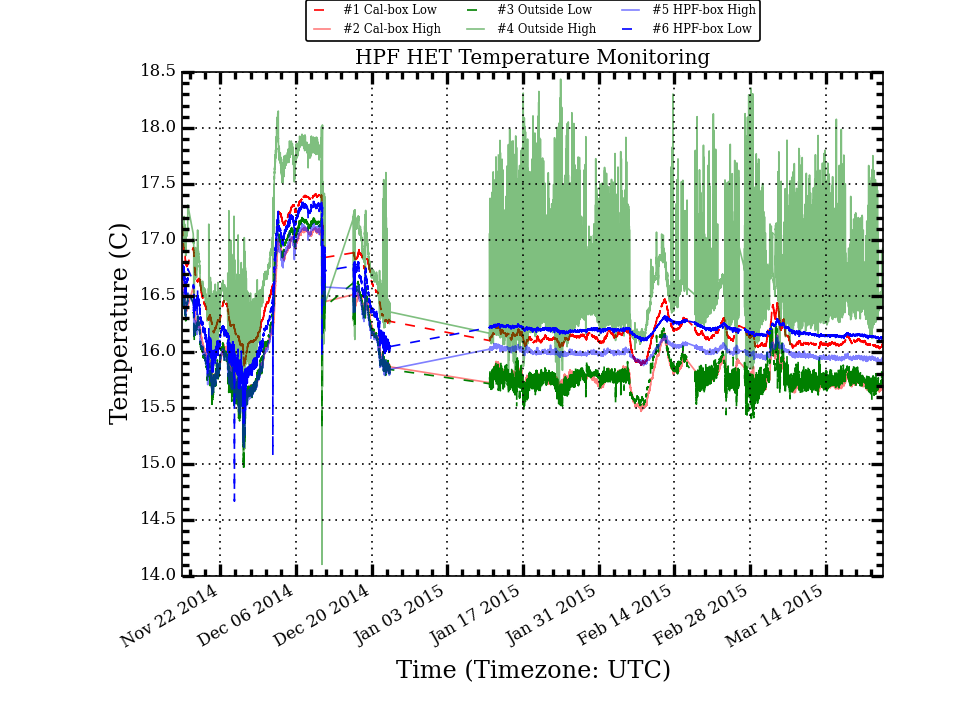
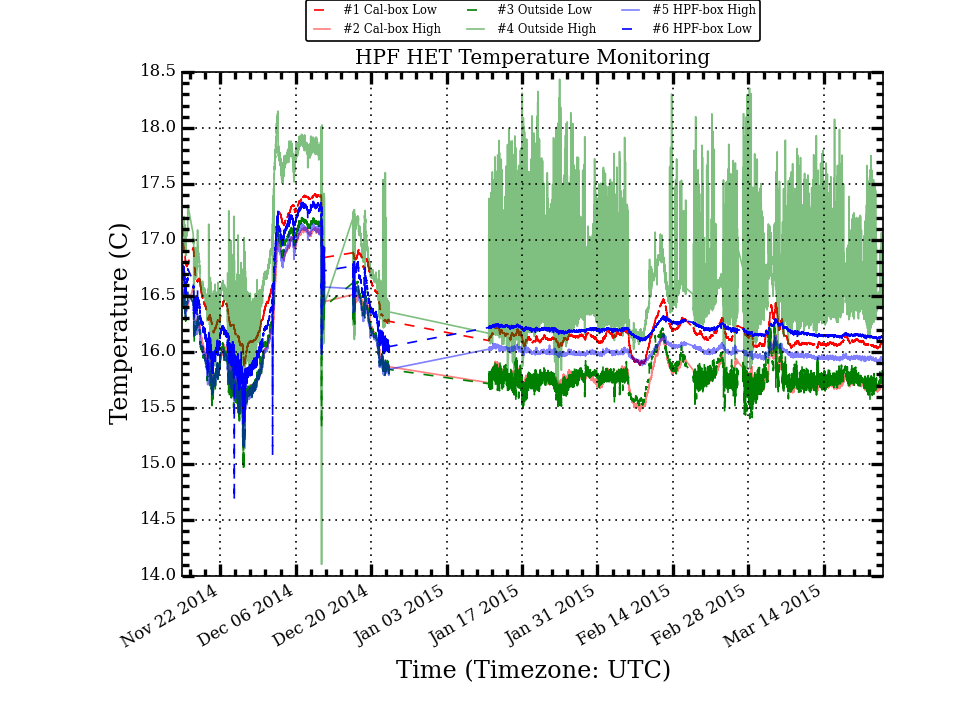
Update HPF Temp Plots

diff --git a/research/hpf_temps/plots/LakeShoreLogTotal_stats.html b/research/hpf_temps/plots/LakeShoreLogTotal_stats.html
@@ -10,16 +10,16 @@
  </TR>
  <TR>
   <TD>Cal_Low</TD>
-  <TD>16.302</TD>
+  <TD>16.301</TD>
   <TD>0.362</TD>
-  <TD>16.154</TD>
+  <TD>16.153</TD>
   <TD>17.410</TD>
   <TD>15.840</TD>
   <TD>1.570</TD>
  </TR>
  <TR>
   <TD>Cal_High</TD>
-  <TD>15.936</TD>
+  <TD>15.935</TD>
   <TD>0.379</TD>
   <TD>15.792</TD>
   <TD>17.114</TD>
@@ -28,7 +28,7 @@
  </TR>
  <TR>
   <TD>Out_Low</TD>
-  <TD>15.937</TD>
+  <TD>15.936</TD>
   <TD>0.403</TD>
   <TD>15.780</TD>
   <TD>17.201</TD>
@@ -37,16 +37,16 @@
  </TR>
  <TR>
   <TD>Out_High</TD>
-  <TD>16.654</TD>
+  <TD>16.653</TD>
   <TD>0.456</TD>
-  <TD>16.520</TD>
+  <TD>16.518</TD>
   <TD>18.436</TD>
   <TD>14.104</TD>
   <TD>4.332</TD>
  </TR>
  <TR>
   <TD>HPF_High</TD>
-  <TD>16.084</TD>
+  <TD>16.083</TD>
   <TD>0.320</TD>
   <TD>15.997</TD>
   <TD>17.147</TD>
